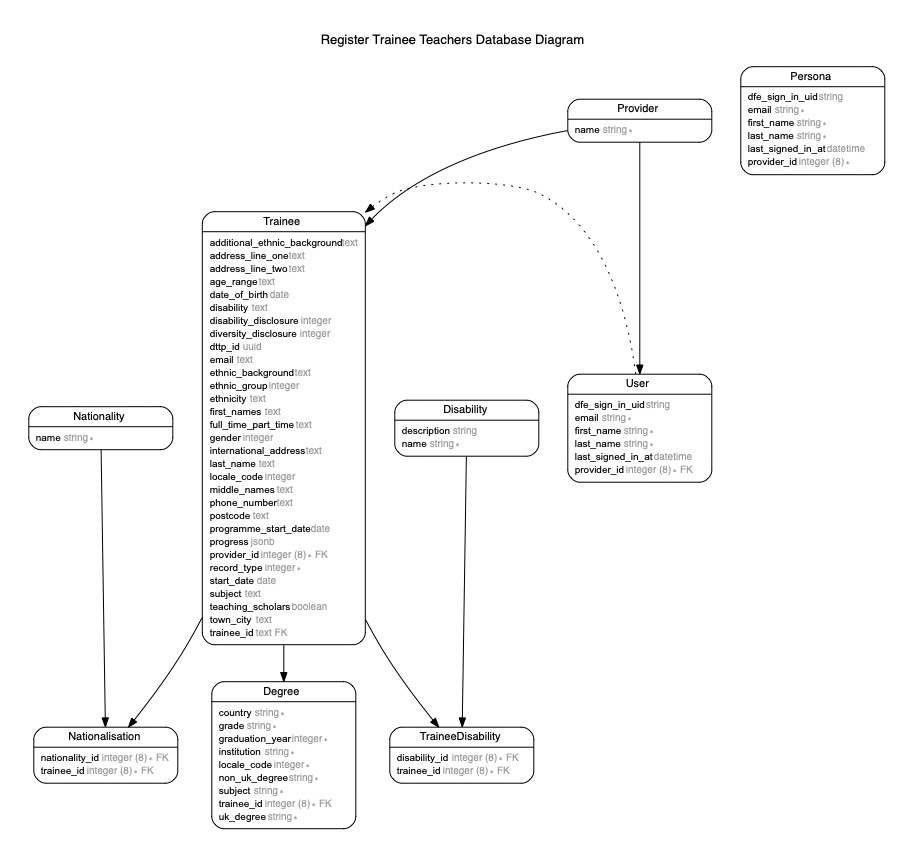
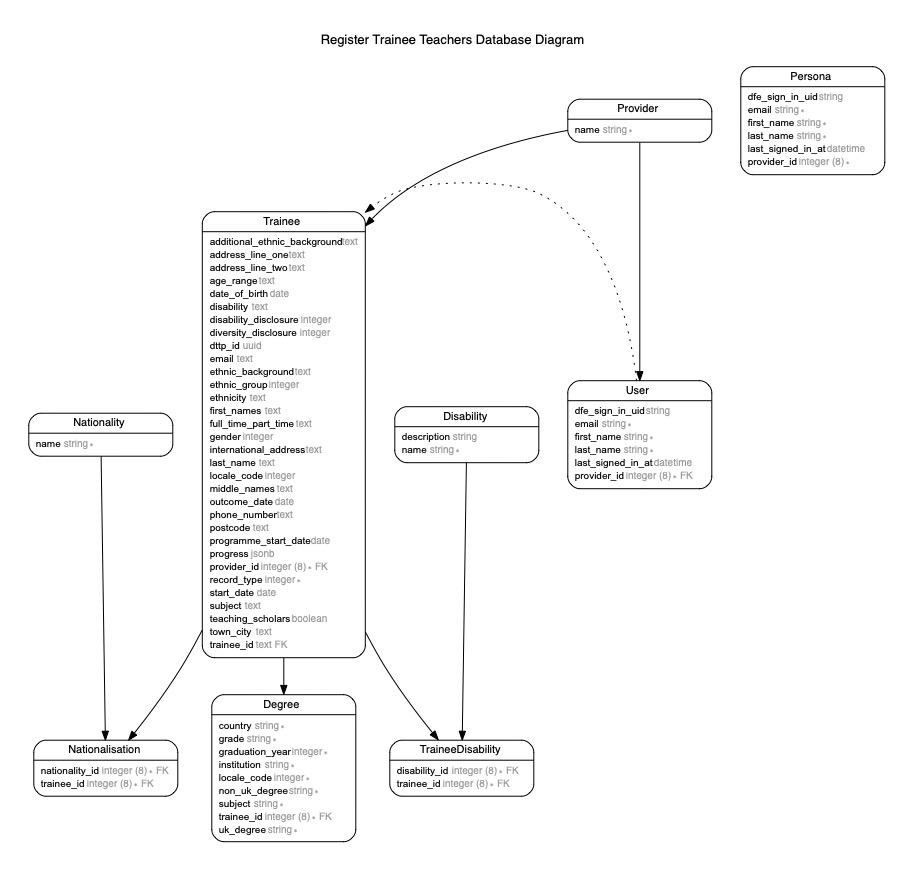
[578] Set QTS assessment date

diff --git a/spec/features/trainees/recording_training_outcome_spec.rb b/spec/features/trainees/recording_training_outcome_spec.rb
@@ -1,0 +1,81 @@
+# frozen_string_literal: true
+
+require "rails_helper"
+
+feature "Recording a training outcome", type: :feature do
+  before do
+    given_i_am_authenticated
+    given_a_trainee_exists
+    when_i_visit_the_trainee_edit_page
+    when_click_on_record_training_outcome
+  end
+
+  scenario "choosing today records the outcome" do
+    when_i_choose("Today")
+    when_i_submit_the_form
+    then_i_am_redirected_to_the_edit_page
+  end
+
+  scenario "choosing yesterday records the outcome" do
+    when_i_choose("Yesterday")
+    when_i_submit_the_form
+    then_i_am_redirected_to_the_edit_page
+  end
+
+  context "choosing 'On another day'" do
+    before do
+      when_i_choose("On another day")
+    end
+
+    scenario "and not filling out a complete date displays the correct error" do
+      when_i_submit_the_form
+      then_i_see_the_error_message_for("blank")
+    end
+
+    scenario "and filling out an invalid date displays the correct error" do
+      outcome_date_page.set_date_fields("outcome_date", "32/01/2020")
+      when_i_submit_the_form
+      then_i_see_the_error_message_for("invalid")
+    end
+
+    scenario "and filling out a valid date" do
+      outcome_date_page.set_date_fields("outcome_date", "31/01/2020")
+      when_i_submit_the_form
+      then_i_am_redirected_to_the_edit_page
+    end
+  end
+
+  def when_i_visit_the_trainee_edit_page
+    edit_page.load(id: trainee.id)
+  end
+
+  def when_click_on_record_training_outcome
+    edit_page.record_outcome.click
+  end
+
+  def when_i_choose(option)
+    outcome_date_page.choose(option)
+  end
+
+  def when_i_submit_the_form
+    outcome_date_page.continue.click
+  end
+
+  def then_i_see_the_error_message_for(type)
+    expect(page).to have_content(
+      I18n.t("activemodel.errors.models.outcome.attributes.outcome_date.#{type}"),
+    )
+  end
+
+  def then_i_am_redirected_to_the_edit_page
+    expect(edit_page).to be_displayed(id: trainee.id)
+  end
+
+  def edit_page
+    @edit_page ||= PageObjects::Trainees::Edit.new
+  end
+
+  def outcome_date_page
+    @edit_outcome_date_page ||= PageObjects::Trainees::EditOutcomeDate.new
+  end
+end

diff --git a/app/models/outcome.rb b/app/models/outcome.rb
@@ -1,0 +1,69 @@
+# frozen_string_literal: true
+
+class Outcome
+  include ActiveModel::Model
+  include ActiveModel::AttributeAssignment
+  include ActiveModel::Validations::Callbacks
+
+  attr_accessor :trainee, :day, :month, :year, :outcome_date_string
+
+  delegate :id, :persisted?, to: :trainee
+
+  validate :outcome_date_valid
+
+  after_validation :update_trainee
+
+  def initialize(trainee)
+    @trainee = trainee
+    super(fields)
+  end
+
+  def fields
+    {
+      day: trainee.outcome_date&.day,
+      month: trainee.outcome_date&.month,
+      year: trainee.outcome_date&.year,
+    }
+  end
+
+  def save
+    valid? && trainee.save
+  end
+
+  def outcome_date
+    date_conversion[outcome_date_string]
+  end
+
+private
+
+  def update_trainee
+    trainee.assign_attributes({ outcome_date: outcome_date }) if errors.empty?
+  end
+
+  def date_conversion
+    {
+      today: Time.zone.today,
+      yesterday: Time.zone.yesterday,
+      other: other_date,
+    }.with_indifferent_access
+  end
+
+  def other_date
+    date_hash = { year: year, month: month, day: day }
+    date_args = date_hash.values.map(&:to_i)
+
+    if Date.valid_date?(*date_args)
+      Date.new(*date_args)
+    else
+      Struct.new(*date_hash.keys).new(*date_hash.values)
+    end
+  end
+
+  def outcome_date_valid
+    if outcome_date_string == "other" && [day, month, year].all?(&:blank?)
+      errors.add(:outcome_date, :blank)
+    elsif !outcome_date.is_a?(Date)
+      errors.add(:outcome_date, :invalid)
+    end
+  end
+end

diff --git a/app/controllers/trainees/outcome_dates_controller.rb b/app/controllers/trainees/outcome_dates_controller.rb
@@ -1,0 +1,41 @@
+# frozen_string_literal: true
+
+module Trainees
+  class OutcomeDatesController < ApplicationController
+    PARAM_CONVERSION = {
+      "outcome_date(3i)" => "day",
+      "outcome_date(2i)" => "month",
+      "outcome_date(1i)" => "year",
+    }.freeze
+
+    def edit
+      authorize trainee
+      @outcome = Outcome.new(trainee)
+    end
+
+    def update
+      authorize trainee
+      @outcome = Outcome.new(trainee)
+      @outcome.assign_attributes(trainee_params)
+
+      if @outcome.save
+        redirect_to edit_trainee_path(trainee)
+      else
+        render :edit
+      end
+    end
+
+  private
+
+    def trainee
+      @trainee ||= Trainee.find(params[:trainee_id])
+    end
+
+    def trainee_params
+      params.require(:outcome).permit(:outcome_date_string, *PARAM_CONVERSION.keys)
+        .transform_keys do |key|
+          PARAM_CONVERSION.keys.include?(key) ? PARAM_CONVERSION[key] : key
+        end
+    end
+  end
+end

diff --git a/db/schema.rb b/db/schema.rb
@@ -10,7 +10,7 @@
 #
 # It's strongly recommended that you check this file into your version control system.
 
-ActiveRecord::Schema.define(version: 2020_11_23_160305) do
+ActiveRecord::Schema.define(version: 2020_12_04_122116) do
 
   # These are extensions that must be enabled in order to support this database
   enable_extension "plpgsql"
@@ -104,6 +104,7 @@ ActiveRecord::Schema.define(version: 2020_11_23_160305) do
     t.date "programme_start_date"
     t.jsonb "progress", default: {}
     t.bigint "provider_id", null: false
+    t.date "outcome_date"
     t.index ["disability_disclosure"], name: "index_trainees_on_disability_disclosure"
     t.index ["diversity_disclosure"], name: "index_trainees_on_diversity_disclosure"
     t.index ["dttp_id"], name: "index_trainees_on_dttp_id"

diff --git a/spec/support/page_objects/trainees/edit_outcome_date.rb b/spec/support/page_objects/trainees/edit_outcome_date.rb
@@ -1,0 +1,18 @@
+# frozen_string_literal: true
+
+module PageObjects
+  module Trainees
+    class EditOutcomeDate < PageObjects::Base
+      include PageObjects::Helpers
+      set_url "/trainees/{trainee_id}/outcome-date/edit"
+
+      element :outcome_date_radios, ".govuk-radios.outcome-date"
+
+      element :outcome_date_day, "#outcome_outcome_date_3i"
+      element :outcome_date_month, "#outcome_outcome_date_2i"
+      element :outcome_date_year, "#outcome_outcome_date_1i"
+
+      element :continue, ".govuk-button"
+    end
+  end
+end

diff --git a/spec/support/page_objects/trainees/edit.rb b/spec/support/page_objects/trainees/edit.rb
@@ -8,6 +8,8 @@ module PageObjects
       element :trainee_name, ".govuk-heading-xl"
       element :trn_status, ".govuk-tag.govuk-tag--turquoise"
 
+      element :record_outcome, ".govuk-button"
+
       section :record_detail, PageObjects::Sections::Summaries::RecordDetail, ".record-details"
       section :programme_detail, PageObjects::Sections::Summaries::ProgrammeDetail, ".programme-details"
 

diff --git a/config/routes.rb b/config/routes.rb
@@ -57,6 +57,8 @@ Rails.application.routes.draw do
         resource :disability_disclosure, concerns: :confirmable, only: %i[edit update], path: "/disability-disclosure"
         resource :disability_detail, concerns: :confirmable, only: %i[edit update], path: "/disabilities"
       end
+
+      resource :outcome_date, only: %i[edit update], path: "/outcome-date"
     end
 
     member do

diff --git a/app/components/trainees/record_actions/view.rb b/app/components/trainees/record_actions/view.rb
@@ -1,0 +1,13 @@
+# frozen_string_literal: true
+
+module Trainees
+  module RecordActions
+    class View < GovukComponent::Base
+      attr_reader :trainee
+
+      def initialize(trainee)
+        @trainee = trainee
+      end
+    end
+  end
+end

diff --git a/db/migrate/20201204122116_add_outcome_date_to_trainees.rb b/db/migrate/20201204122116_add_outcome_date_to_trainees.rb
@@ -1,0 +1,7 @@
+# frozen_string_literal: true
+
+class AddOutcomeDateToTrainees < ActiveRecord::Migration[6.0]
+  def change
+    add_column :trainees, :outcome_date, :date
+  end
+end

diff --git a/README.md b/README.md
@@ -25,6 +25,16 @@ When the versions are updated in master run `asdf install` again to update your
 installation. Use `asdf plugin update --all` to update plugins and get access to
 newer versions of tools.
 
+### Install GraphViz
+
+This is not essential if you just want to run the app. However, if you're
+intending to make any changed to the database schema, this is a requirement
+for [rails-erd](https://github.com/voormedia/rails-erd).
+
+```
+brew install graphviz
+```
+
 ## Setting up the app in development
 
 1. Run `bundle install` to install the gem dependencies
